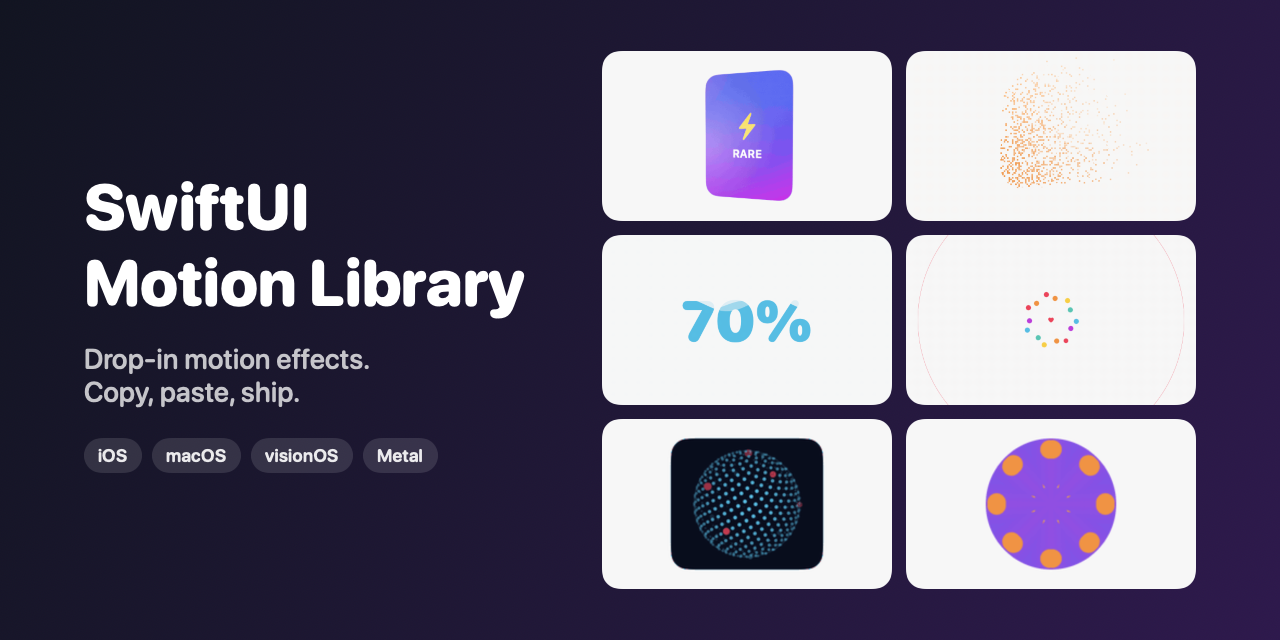
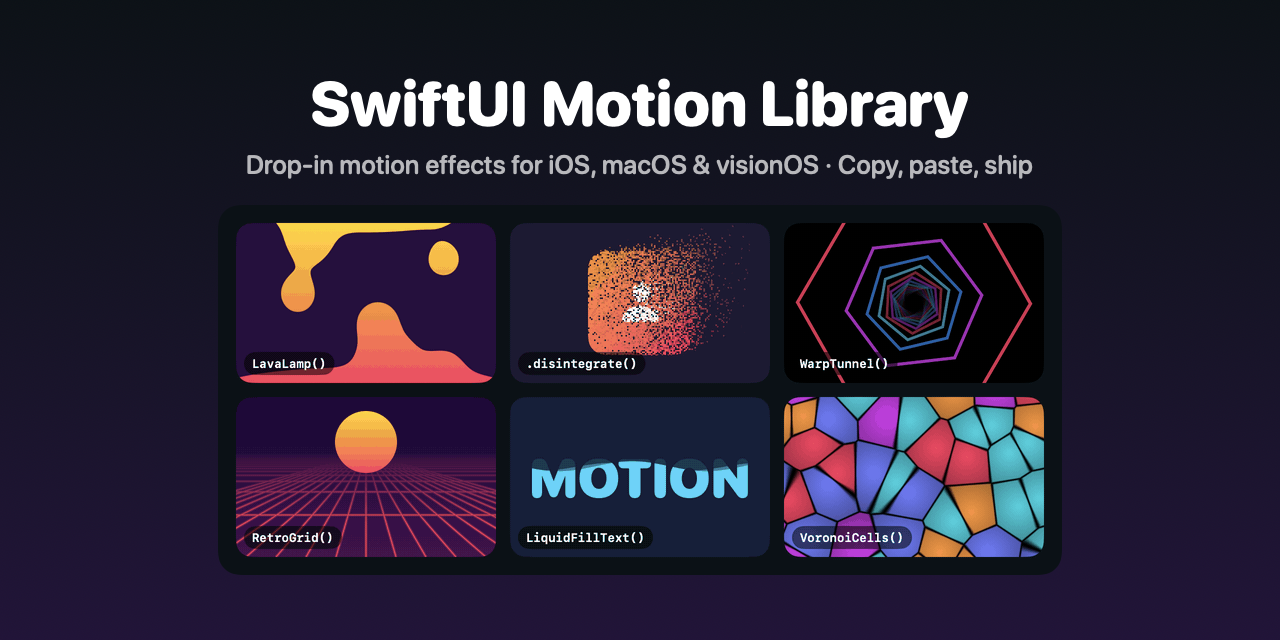
docs(readme): record a dark, full-bleed hero and matching social preview
The hero mosaic is now recorded straight from SwiftUI (Scripts/ReadmeGIFs/
Hero.swift, `record-readme-gifs.sh hero`): six full-bleed effects on GitHub's
dark page colour, each labelled with its API, looping every 4 s. Badges move
above it, and the social preview uses one of its frames. make-hero.sh, which
stitched the light effect GIFs together, is gone.

diff --git a/Scripts/ReadmeGIFs/Hero.swift b/Scripts/ReadmeGIFs/Hero.swift
@@ -1,0 +1,107 @@
+// The animated mosaic at the top of the README (Docs/hero.gif), recorded with
+// `Scripts/record-readme-gifs.sh hero`. Every tile is full-bleed and driven by
+// the clock, so it loops without any input.
+
+import MotionLibrary
+import MotionShaders
+import SwiftUI
+
+let heroTile = CGSize(width: 260, height: 160)
+let heroGap: CGFloat = 14
+let heroPadding: CGFloat = 18
+let heroStage = CGSize(
+    width: heroPadding * 2 + heroTile.width * 3 + heroGap * 2,
+    height: heroPadding * 2 + heroTile.height * 2 + heroGap
+)
+/// Length of one loop; the GIF is exactly this long.
+let heroLoop = 4.0
+
+struct HeroScene: View {
+    private let start = Date()
+
+    var body: some View {
+        TimelineView(.animation) { timeline in
+            let t = timeline.date.timeIntervalSince(start).truncatingRemainder(dividingBy: heroLoop)
+            Grid(horizontalSpacing: heroGap, verticalSpacing: heroGap) {
+                GridRow {
+                    tile("LavaLamp()") { LavaLamp() }
+                    tile(".disintegrate()") { disintegrate(t) }
+                    tile("WarpTunnel()") { WarpTunnel(sides: 6).background(.black) }
+                }
+                GridRow {
+                    tile("RetroGrid()") { synthwave }
+                    tile("LiquidFillText()") { liquidText(t) }
+                    tile("VoronoiCells()") { VoronoiCells(cellSize: 40) }
+                }
+            }
+            .padding(heroPadding)
+        }
+        .frame(width: heroStage.width, height: heroStage.height)
+        // GitHub's dark page colour, so the panel blends in there and reads as
+        // a dark card on the light theme.
+        .background(Color(red: 0.05, green: 0.07, blue: 0.09))
+        .environment(\.colorScheme, .dark)
+    }
+
+    private func tile(_ api: String, @ViewBuilder _ content: () -> some View) -> some View {
+        content()
+            .frame(width: heroTile.width, height: heroTile.height)
+            .clipShape(RoundedRectangle(cornerRadius: 16, style: .continuous))
+            .overlay(alignment: .bottomLeading) {
+                Text(api)
+                    .font(.system(size: 12, weight: .semibold, design: .monospaced))
+                    .foregroundStyle(.white)
+                    .padding(.horizontal, 8).padding(.vertical, 4)
+                    .background(.black.opacity(0.55), in: Capsule())
+                    .padding(8)
+            }
+    }
+
+    /// Holds, crumbles away on the wind, holds, then reforms.
+    private func disintegrate(_ t: Double) -> some View {
+        let progress: Double = switch t {
+        case ..<0.7: 0
+        case ..<1.8: ease((t - 0.7) / 1.1)
+        case ..<2.4: 1
+        case ..<3.4: 1 - ease((t - 2.4) / 1.0)
+        default: 0
+        }
+        return ZStack {
+            Color(red: 0.12, green: 0.10, blue: 0.20)
+            RoundedRectangle(cornerRadius: 18, style: .continuous)
+                .fill(LinearGradient(colors: [.orange, .pink], startPoint: .topLeading, endPoint: .bottomTrailing))
+                .overlay(Image(systemName: "person.fill").font(.system(size: 44)).foregroundStyle(.white))
+                .frame(width: 104, height: 104)
+                .disintegrate(progress, wind: CGVector(dx: 90, dy: -40), grain: 1.5)
+        }
+    }
+
+    /// Fills up, then drains, once per loop. The level only changes twice so
+    /// the view's own spring can carry it (a new target every frame keeps
+    /// restarting the spring).
+    private func liquidText(_ t: Double) -> some View {
+        ZStack {
+            Color(red: 0.06, green: 0.12, blue: 0.22)
+            LiquidFillText("MOTION", progress: (0.3..<2.3).contains(t) ? 0.62 : 0.12, color: .cyan, waveHeight: 5)
+                .font(.system(size: 54, weight: .black, design: .rounded))
+        }
+    }
+
+    private var synthwave: some View {
+        RetroGrid(color: .pink, spacing: 30, speed: 1.25)
+            .background(
+                LinearGradient(colors: [Color(red: 0.1, green: 0.02, blue: 0.2), Color(red: 0.28, green: 0.05, blue: 0.32)], startPoint: .top, endPoint: .bottom)
+            )
+            .overlay(alignment: .top) {
+                Circle()
+                    .fill(LinearGradient(colors: [.yellow, .pink], startPoint: .top, endPoint: .bottom))
+                    .frame(width: 62, height: 62)
+                    .padding(.top, 14)
+            }
+    }
+
+    private func ease(_ x: Double) -> Double {
+        let x = min(max(x, 0), 1)
+        return x * x * (3 - 2 * x)
+    }
+}

diff --git a/Scripts/make-social-preview.swift b/Scripts/make-social-preview.swift
@@ -7,14 +7,12 @@ import SwiftUI
 
 let root = URL(fileURLWithPath: #filePath).deletingLastPathComponent().deletingLastPathComponent()
 
-/// (effect id, frame index): a frame where the effect is mid-motion.
-let tiles: [(String, Int)] = [
-    ("holo-card", 30), ("disintegrate", 55), ("liquid-fill-text", 40),
-    ("like-button", 14), ("dot-globe", 20), ("kaleidoscope", 30),
-]
+/// The frame of Docs/hero.gif to show: the card is mid-crumble and the
+/// liquid is rising.
+let heroFrame = 22
 
-func gifFrame(_ id: String, _ index: Int) -> NSImage? {
-    let url = root.appendingPathComponent("Docs/gifs/\(id).gif")
+func gifFrame(_ path: String, _ index: Int) -> NSImage? {
+    let url = root.appendingPathComponent(path)
     guard let source = CGImageSourceCreateWithURL(url as CFURL, nil) else { return nil }
     let i = min(index, CGImageSourceGetCount(source) - 1)
     guard let image = CGImageSourceCreateImageAtIndex(source, i, nil) else { return nil }
@@ -23,51 +21,26 @@ func gifFrame(_ id: String, _ index: Int) -> NSImage? {
 
 struct Preview: View {
     var body: some View {
-        HStack(spacing: 48) {
-            VStack(alignment: .leading, spacing: 22) {
-                Text("SwiftUI\nMotion Library")
-                    .font(.system(size: 64, weight: .heavy, design: .rounded))
+        VStack(spacing: 26) {
+            VStack(spacing: 10) {
+                Text("SwiftUI Motion Library")
+                    .font(.system(size: 62, weight: .heavy, design: .rounded))
                     .foregroundStyle(.white)
-                    .lineSpacing(-4)
-                Text("Drop-in motion effects.\nCopy, paste, ship.")
-                    .font(.system(size: 28, weight: .medium, design: .rounded))
-                    .foregroundStyle(.white.opacity(0.75))
-                HStack(spacing: 10) {
-                    ForEach(["iOS", "macOS", "visionOS", "Metal"], id: \.self) { tag in
-                        Text(tag)
-                            .font(.system(size: 18, weight: .semibold, design: .rounded))
-                            .foregroundStyle(.white.opacity(0.9))
-                            .padding(.horizontal, 14).padding(.vertical, 7)
-                            .background(.white.opacity(0.12), in: Capsule())
-                    }
-                }
-                .padding(.top, 8)
+                Text("Drop-in motion effects for iOS, macOS & visionOS · Copy, paste, ship")
+                    .font(.system(size: 26, weight: .medium, design: .rounded))
+                    .foregroundStyle(.white.opacity(0.7))
             }
-            .frame(width: 470, alignment: .leading)
-
-            Grid(horizontalSpacing: 14, verticalSpacing: 14) {
-                ForEach(0..<3) { row in
-                    GridRow {
-                        ForEach(0..<2) { column in
-                            let (id, index) = tiles[row * 2 + column]
-                            if let image = gifFrame(id, index) {
-                                Image(nsImage: image)
-                                    .resizable()
-                                    .scaledToFill()
-                                    .scaleEffect(1.35)
-                                    .frame(width: 290, height: 170)
-                                    .clipShape(RoundedRectangle(cornerRadius: 18, style: .continuous))
-                            }
-                        }
-                    }
-                }
+            // Shown at its native 1x size so it stays sharp.
+            if let hero = gifFrame("Docs/hero.gif", heroFrame) {
+                Image(nsImage: hero)
+                    .frame(width: hero.size.width, height: hero.size.height)
+                    .clipShape(RoundedRectangle(cornerRadius: 22, style: .continuous))
             }
         }
-        .padding(.horizontal, 60)
         .frame(width: 1280, height: 640)
         .background(
-            LinearGradient(colors: [Color(red: 0.07, green: 0.08, blue: 0.13), Color(red: 0.18, green: 0.10, blue: 0.30)],
-                           startPoint: .topLeading, endPoint: .bottomTrailing)
+            LinearGradient(colors: [Color(red: 0.05, green: 0.07, blue: 0.09), Color(red: 0.13, green: 0.08, blue: 0.22)],
+                           startPoint: .top, endPoint: .bottom)
         )
     }
 }

diff --git a/Scripts/ReadmeGIFs/main.swift b/Scripts/ReadmeGIFs/main.swift
@@ -90,6 +90,8 @@ private extension Step {
 func recording(for id: String) -> Recording {
     let c = center()
     switch id {
+    case "hero":
+        return Recording(duration: heroLoop, appear: true, stage: heroStage, scene: { AnyView(HeroScene()) })
     case "typewriter":
         return Recording(duration: 3.2, appear: true)
     case "scramble":
@@ -563,11 +565,15 @@ final class Recorder {
 
     func run() async {
         for id in ids {
+            if id == "hero" {
+                await record(id) { AnyView(HeroScene()) }
+                continue
+            }
             guard let effect = MotionCatalog.all.first(where: { $0.id == id }) else {
                 print("unknown effect id: \(id)")
                 continue
             }
-            await record(effect)
+            await record(effect.id) { effect.demo() }
         }
         await withCheckedContinuation { done in
             ioGroup.notify(queue: .main) { done.resume() }
@@ -575,9 +581,9 @@ final class Recorder {
         NSApp.terminate(nil)
     }
 
-    func record(_ effect: MotionEffect) async {
-        let plan = recording(for: effect.id)
-        let dir = outDir.appendingPathComponent(effect.id)
+    func record(_ id: String, demo: @MainActor () -> AnyView) async {
+        let plan = recording(for: id)
+        let dir = outDir.appendingPathComponent(id)
         try? FileManager.default.removeItem(at: dir)
         try? FileManager.default.createDirectory(at: dir, withIntermediateDirectories: true)
 
@@ -587,15 +593,15 @@ final class Recorder {
         let maxAttempts = plan.steps.isEmpty ? 1 : 10
         var frames: [CGImage] = []
         for attempt in 1...maxAttempts {
-            frames = await capture(effect, plan: plan)
+            frames = await capture(id, demo: demo, plan: plan)
             guard !plan.steps.isEmpty else { break }
             let changed = changedFrameCount(frames)
             if changed >= frames.count / 5 { break }
             if attempt == maxAttempts {
-                print("WARNING: \(effect.id) looks frozen after \(maxAttempts) attempts; record it again")
+                print("WARNING: \(id) looks frozen after \(maxAttempts) attempts; record it again")
                 break
             }
-            print("  \(effect.id): only \(changed)/\(frames.count) frames moved, retrying")
+            print("  \(id): only \(changed)/\(frames.count) frames moved, retrying")
         }
 
         for (index, image) in frames.enumerated() {
@@ -606,10 +612,10 @@ final class Recorder {
                 ioGroup.leave()
             }
         }
-        print("recorded \(effect.id) (\(frames.count) frames)")
+        print("recorded \(id) (\(frames.count) frames)")
     }
 
-    private func capture(_ effect: MotionEffect, plan: Recording) async -> [CGImage] {
+    private func capture(_ id: String, demo: @MainActor () -> AnyView, plan: Recording) async -> [CGImage] {
         let size = plan.stage
         host.rootView = StageView(size: size, content: AnyView(EmptyView()))
         window.setContentSize(size)
@@ -622,7 +628,7 @@ final class Recorder {
         try? await Task.sleep(for: .seconds(0.2))
 
         // Mount the demo now so appear animations are captured from the start.
-        host.rootView = StageView(size: size, content: plan.scene?() ?? effect.demo())
+        host.rootView = StageView(size: size, content: plan.scene?() ?? demo())
         if !plan.appear {
             try? await Task.sleep(for: .seconds(0.6))
         }
@@ -644,7 +650,7 @@ final class Recorder {
 
             let windowImage = captureWindow(window)
             guard let image = windowCapture ? windowImage : captureView(host) else {
-                print("capture failed for \(effect.id)")
+                print("capture failed for \(id)")
                 break
             }
             frames.append(image)

diff --git a/AGENTS.md b/AGENTS.md
@@ -28,7 +28,7 @@ skills/swiftui-motion/                # generated Agent Skill
 .cursor/rules/swiftui-motion.mdc      # generated Cursor rule
 mcp/server.mjs                        # zero-dependency MCP server (reads the JSON)
 Examples/MotionLibraryDemo/           # iOS demo app (XcodeGen project.yml + committed .xcodeproj) + scroll UI tests
-Scripts/                              # check-build, check-standalone, generate-docs, record-readme-gifs, record-simulator-gifs, make-hero, make-social-preview
+Scripts/                              # check-build, check-standalone, generate-docs, record-readme-gifs, record-simulator-gifs, make-social-preview
 ```
 
 - `MotionLibrary` must never import `MotionGallery`.
@@ -64,7 +64,7 @@ SWIFT_FLAGS="-swift-version 6 -default-isolation MainActor" Scripts/check-standa
 Scripts/generate-docs.sh          # regenerate catalog-derived files (--check to verify)
 Scripts/record-readme-gifs.sh id  # record Docs/gifs/<id>.gif off-screen, then look at the frames
 Scripts/record-simulator-gifs.sh  # GIFs that need real scrolling, recorded in the iOS Simulator
-Scripts/make-hero.sh              # Docs/hero.gif, the README's top mosaic (rerun after re-recording its GIFs)
+Scripts/record-readme-gifs.sh hero  # Docs/hero.gif, the README's top mosaic (Scripts/ReadmeGIFs/Hero.swift)
 swift Scripts/make-social-preview.swift  # Docs/social-preview.png, upload in Settings → Social preview
 ```
 

diff --git a/CLAUDE.md b/CLAUDE.md
@@ -28,7 +28,7 @@ skills/swiftui-motion/                # generated Agent Skill
 .cursor/rules/swiftui-motion.mdc      # generated Cursor rule
 mcp/server.mjs                        # zero-dependency MCP server (reads the JSON)
 Examples/MotionLibraryDemo/           # iOS demo app (XcodeGen project.yml + committed .xcodeproj) + scroll UI tests
-Scripts/                              # check-build, check-standalone, generate-docs, record-readme-gifs, record-simulator-gifs, make-hero, make-social-preview
+Scripts/                              # check-build, check-standalone, generate-docs, record-readme-gifs, record-simulator-gifs, make-social-preview
 ```
 
 - `MotionLibrary` must never import `MotionGallery`.
@@ -64,7 +64,7 @@ SWIFT_FLAGS="-swift-version 6 -default-isolation MainActor" Scripts/check-standa
 Scripts/generate-docs.sh          # regenerate catalog-derived files (--check to verify)
 Scripts/record-readme-gifs.sh id  # record Docs/gifs/<id>.gif off-screen, then look at the frames
 Scripts/record-simulator-gifs.sh  # GIFs that need real scrolling, recorded in the iOS Simulator
-Scripts/make-hero.sh              # Docs/hero.gif, the README's top mosaic (rerun after re-recording its GIFs)
+Scripts/record-readme-gifs.sh hero  # Docs/hero.gif, the README's top mosaic (Scripts/ReadmeGIFs/Hero.swift)
 swift Scripts/make-social-preview.swift  # Docs/social-preview.png, upload in Settings → Social preview
 ```
 

diff --git a/README.md b/README.md
@@ -6,9 +6,9 @@
 Each one comes with a live demo, usage code and an AI prompt. Pure SwiftUI, zero dependencies.<br>
 <sub>🇹🇼 中文使用者請看 <a href="README.zh-TW.md">繁體中文說明</a></sub>
 
-<img src="Docs/hero.gif" width="760" alt="Holographic card, disintegrate, liquid fill text, like button, dot globe and kaleidoscope effects">
-
 <a href="https://swift.org"><img alt="Swift 5.9" src="https://img.shields.io/badge/Swift-5.9-F05138?style=for-the-badge&logo=swift&logoColor=white"></a> <img alt="iOS 17 · macOS 14 · visionOS 1" src="https://img.shields.io/badge/iOS%2017%20%C2%B7%20macOS%2014%20%C2%B7%20visionOS%201-555?style=for-the-badge"> <img alt="Swift Package Manager" src="https://img.shields.io/badge/SPM-compatible-2E7DF7?style=for-the-badge"> <a href="#license"><img alt="MIT" src="https://img.shields.io/badge/license-MIT-2EA44F?style=for-the-badge"></a> <a href="README.zh-TW.md"><img alt="繁體中文" src="https://img.shields.io/badge/README-%E7%B9%81%E9%AB%94%E4%B8%AD%E6%96%87-555?style=for-the-badge"></a>
+
+<img src="Docs/hero.gif" width="844" alt="Lava lamp, disintegrate, warp tunnel, retro grid, liquid fill text and Voronoi cells, animating">
 
 🤖 **Made for AI coding tools.** `llms.txt`, an Agent Skill, a Cursor rule and an MCP server<br>
 are generated from the same catalog as the gallery. [See how ↓](#ask-your-ai-assistant)<br>

diff --git a/README.zh-TW.md b/README.zh-TW.md
@@ -6,9 +6,9 @@
 每個效果都有即時 Demo、用法程式碼和 AI 提示詞。純 SwiftUI，零依賴。<br>
 <sub>🌐 English speakers: see the <a href="README.md">English README</a></sub>
 
-<img src="Docs/hero.gif" width="760" alt="全像卡片、沙化消散、液體填充文字、按讚、點陣地球和萬花筒效果">
-
 <a href="https://swift.org"><img alt="Swift 5.9" src="https://img.shields.io/badge/Swift-5.9-F05138?style=for-the-badge&logo=swift&logoColor=white"></a> <img alt="iOS 17 · macOS 14 · visionOS 1" src="https://img.shields.io/badge/iOS%2017%20%C2%B7%20macOS%2014%20%C2%B7%20visionOS%201-555?style=for-the-badge"> <img alt="Swift Package Manager" src="https://img.shields.io/badge/SPM-compatible-2E7DF7?style=for-the-badge"> <a href="#授權"><img alt="MIT" src="https://img.shields.io/badge/license-MIT-2EA44F?style=for-the-badge"></a> <a href="README.md"><img alt="English" src="https://img.shields.io/badge/README-English-555?style=for-the-badge"></a>
+
+<img src="Docs/hero.gif" width="844" alt="熔岩燈、沙化消散、曲速隧道、復古網格、液體填充文字和 Voronoi 色塊的動態展示">
 
 🤖 **為 AI 編碼工具而做。** `llms.txt`、Agent Skill、Cursor rule 和 MCP server<br>
 都和 Gallery 從同一份 catalog 產生。[看怎麼用 ↓](#請-ai-助理幫你加)<br>
